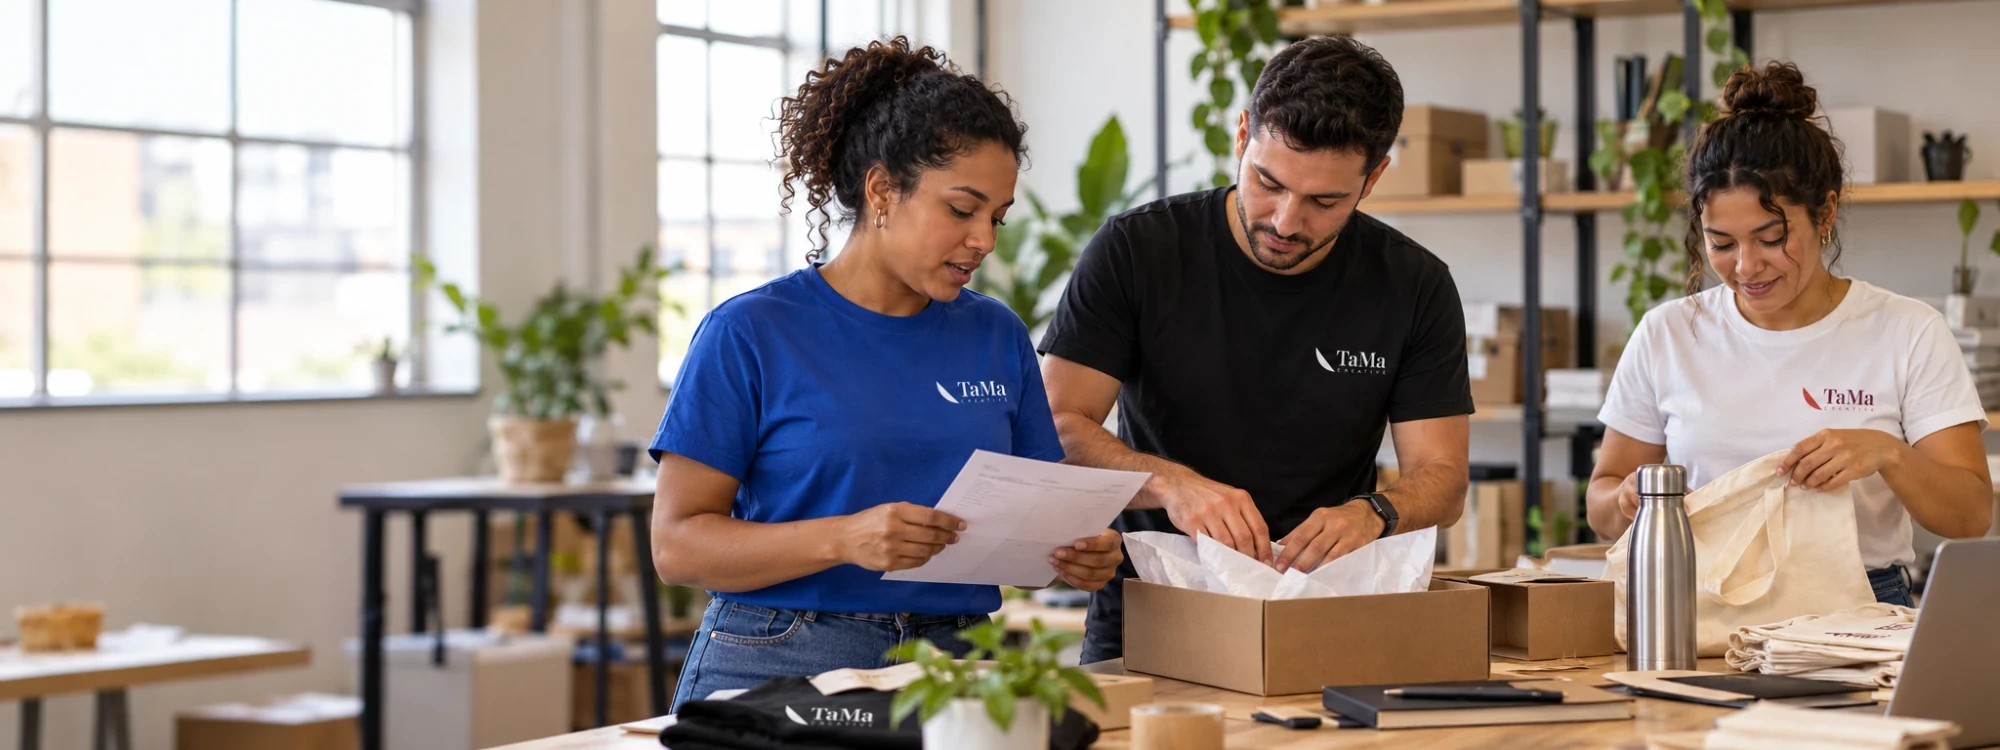
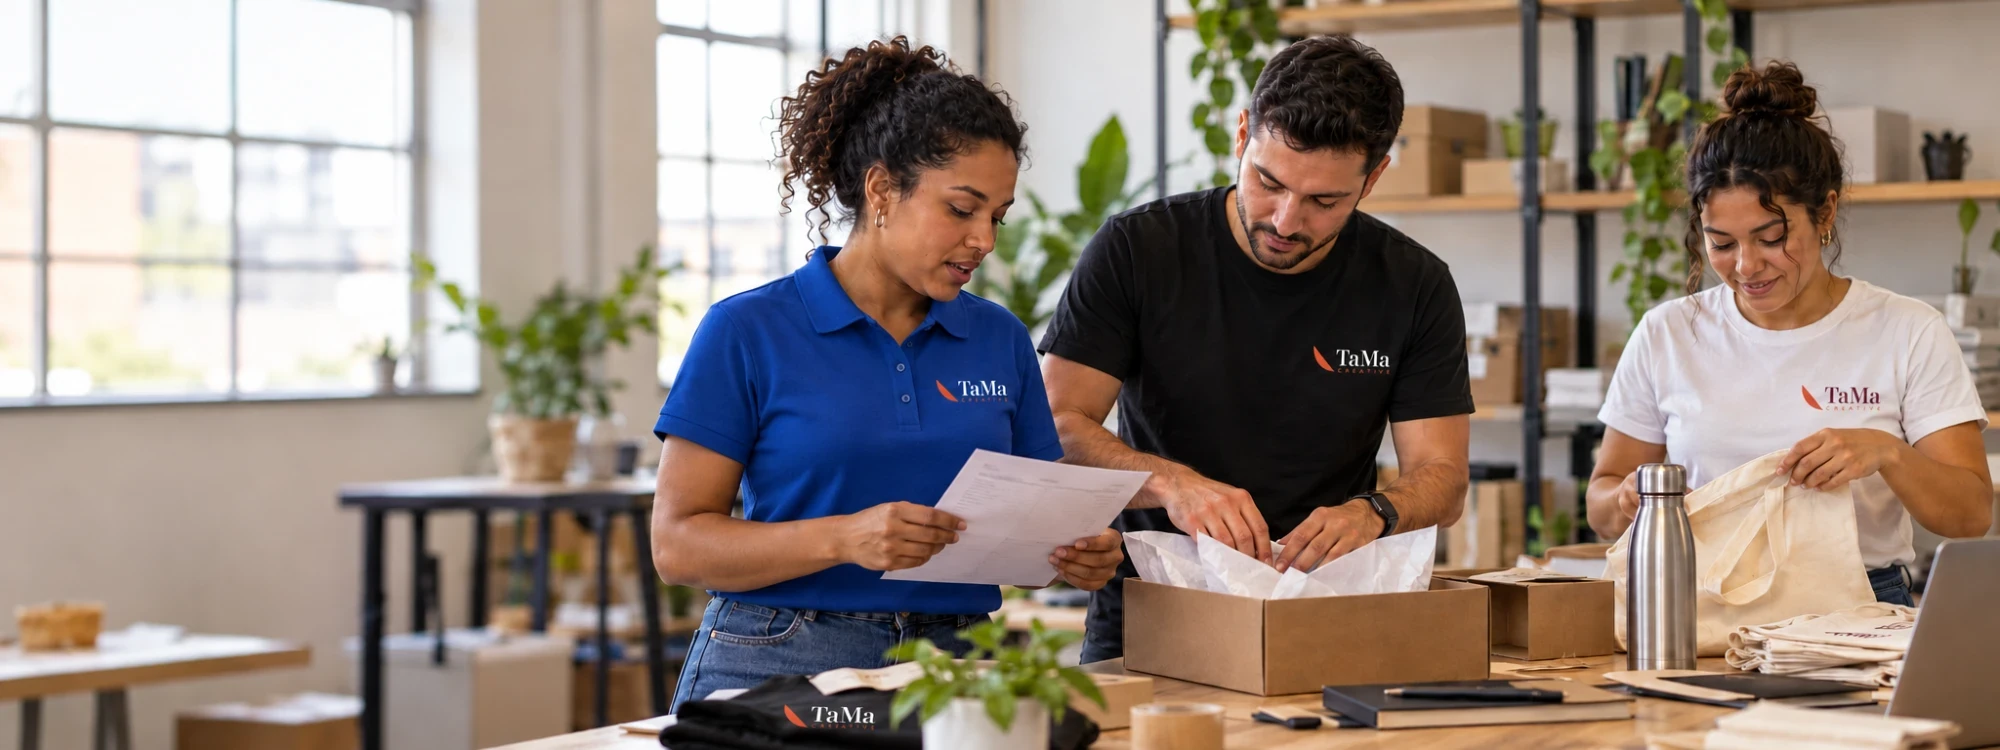
Confecções: equipe de polo azul no 1º slide e degustação com aventais no 4º
A cena de degustação (aventais, camisetas e toucas com a marca num
supermercado) também ilustra o card "Campanhas e ativações" da curadoria.

diff --git a/build.py b/build.py
@@ -532,7 +532,7 @@ COLLECTIONS = [
     ('boas-vindas', 'Boas-vindas', 'Receba novas pessoas com identidade e cuidado.', 'kitp-kit-pratico'),
     ('eventos', 'Eventos', 'Presença de marca em cada encontro.', 'conf-evento-camisetas'),
     ('executivos', 'Presentes executivos', 'Gestos refinados para relações importantes.', 'kitp-kit-executivo'),
-    ('campanhas', 'Campanhas e ativações', 'Produtos com a personalidade da ação.', 'look-corporativo'),
+    ('campanhas', 'Campanhas e ativações', 'Degustações, promoções e ações no ponto de venda.', 'conf-degustacao'),
     ('lancamentos', 'Lançamentos', 'Uma estreia que as pessoas lembram.', 'papelaria-cores'),
     ('fim-de-ano', 'Fim de ano', 'Presentes para encerrar o ano perto de quem importa.', 'embalagem-presente'),
 ]
@@ -1156,7 +1156,7 @@ def page_curadoria():
 # Abertura de Confecções: pessoas usando as peças com a marca (cenas geradas com IA, ilustrativas; tools/cenas.py).
 # frame: --fx/--fy enquadram a foto no computador, --fx-m no celular.
 CONF_SLIDES = [
-    ('tone-linen', 'conf-equipe-kits', '--fx:58%;--fx-m:52%', 'Equipe de camisetas azul, preta e branca com a marca TaMa montando kits num ateliê claro.',
+    ('tone-linen', 'conf-equipe-kits', '--fx:58%;--fx-m:52%', 'Equipe de polo azul e camisetas preta e branca com a marca TaMa montando kits num ateliê claro.',
      'Confecções personalizadas', 'Uniformes corporativos e <em>confecções personalizadas</em>',
      'Polos, camisetas, dólmãs e moletons para equipes, eventos e o dia a dia, alinhados à identidade da sua empresa.',
      cta_link('Solicitar proposta', tipo='confeccoes', track_label='conf-hero-4') + '<a class="btn btn-line" href="/catalogo/?categoria=vestuario">Ver polos e moletons ' + ARROW + '</a>'),
@@ -1168,6 +1168,10 @@ CONF_SLIDES = [
      'Eventos e ações', 'Camisetas que viram <em>presença de marca</em>.',
      'Silk em camisetas para feiras, campanhas e ativações, com a cor e o corte certos para cada equipe.',
      cta_link('Planejar um evento', tipo='confeccoes', track_label='conf-hero-3') + '<a class="btn btn-line" href="/catalogo/?categoria=vestuario">Ver camisetas ' + ARROW + '</a>'),
+    ('tone-rose', 'conf-degustacao', '--fx:42%;--fx-m:40%', 'Promotoras de camiseta branca e avental verde e terracota com a marca TaMa servindo degustação de queijo num supermercado.',
+     'Ativações e degustações', 'Aventais que levam a marca <em>ao ponto de venda</em>.',
+     'Aventais, camisetas e toucas para degustações, promoções e equipes de loja.',
+     cta_link('Planejar uma ativação', tipo='confeccoes', track_label='conf-hero-5') + '<a class="btn btn-line" href="/catalogo/?categoria=vestuario">Ver aventais ' + ARROW + '</a>'),
 ]
 
 
